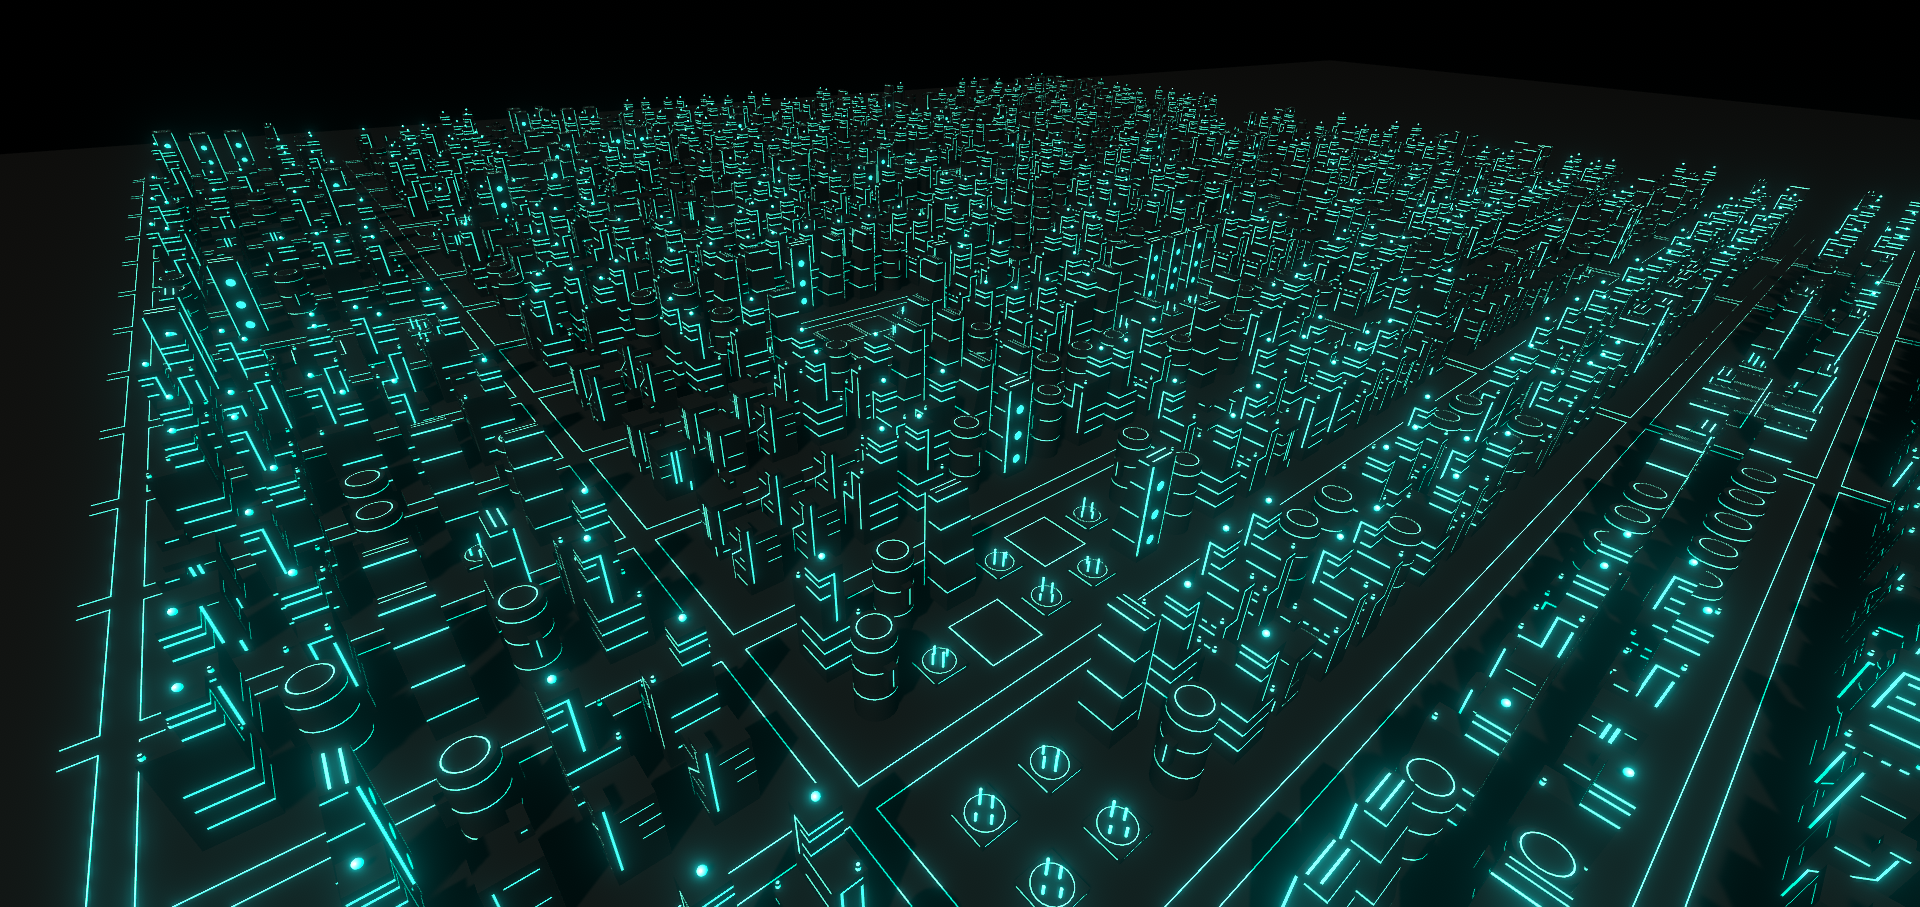
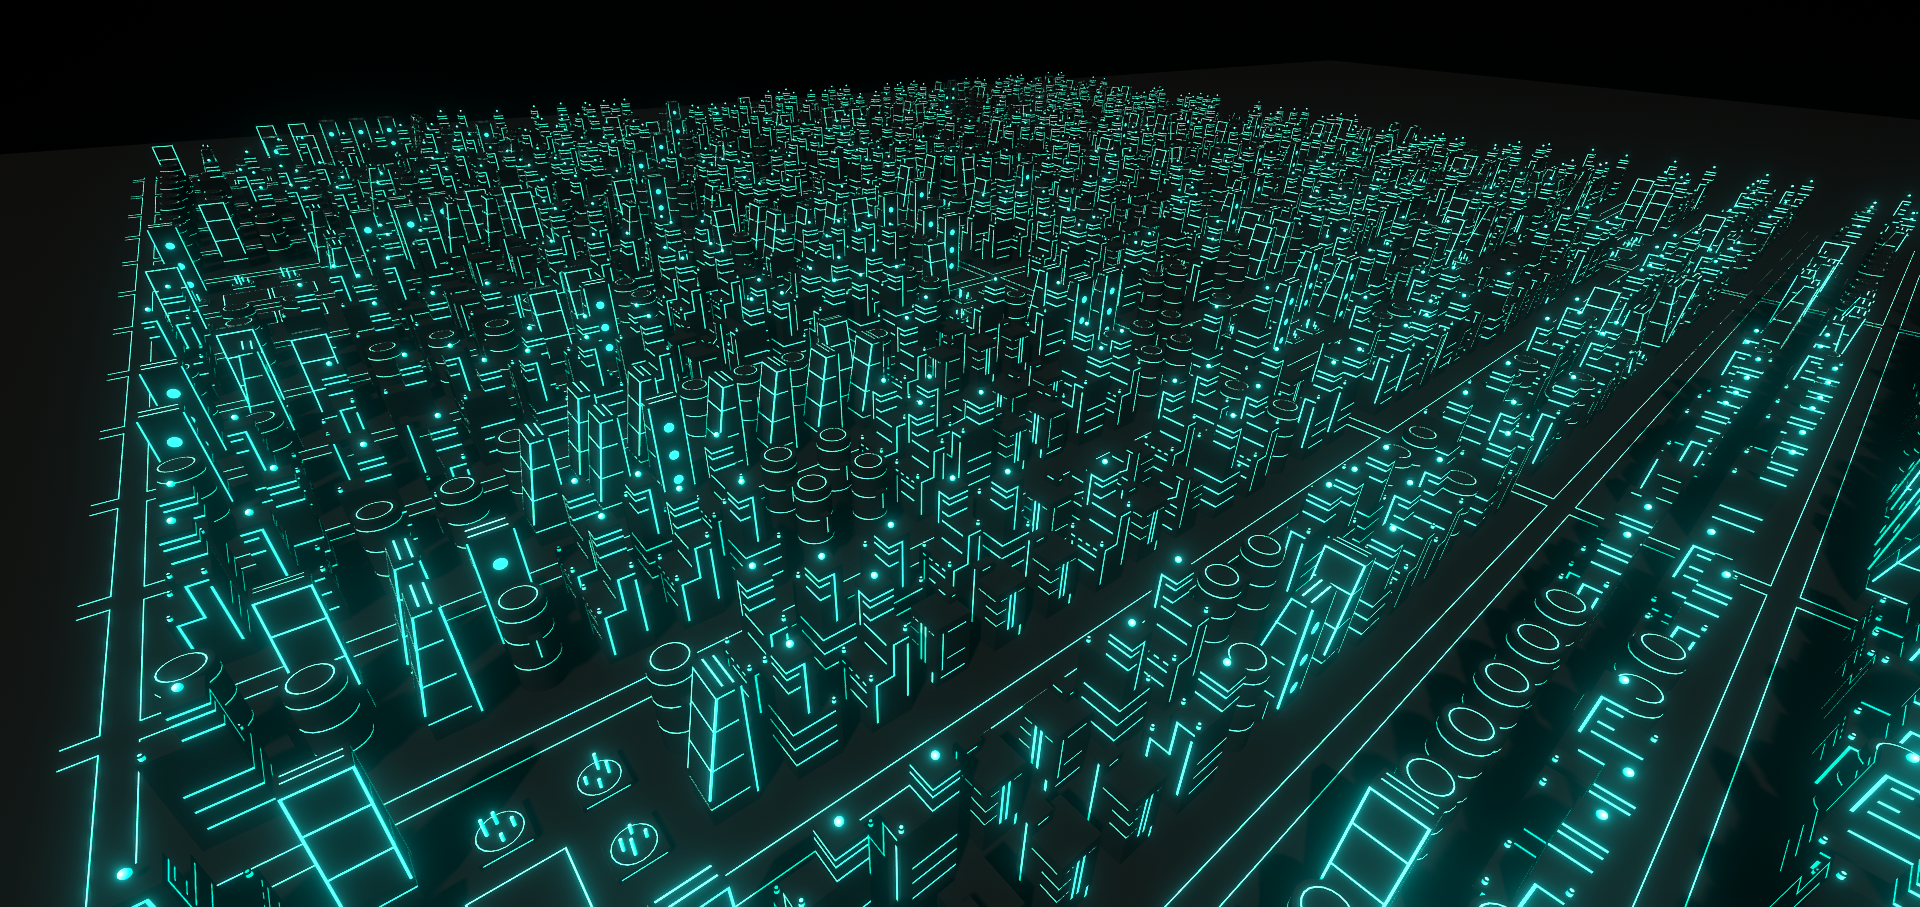
Updated Building 4 to have highlights on the slant

Changed region(s): [[0.0312, 0.0617, 1.0, 1.0], [0.875, 0.9879, 0.9062, 1.0], [0.875, 0.8335, 0.9062, 0.8644]]

diff --git a/README.md b/README.md
@@ -2,6 +2,10 @@
 
 # Lab 8:
 
+![](Images/Lab%207%20Part%202A%20Height%20Texture.png)
+
+For the tutorial step-by-step, I used the following textures in that scene:
+
 https://3dtextures.me/2018/12/17/ground-grass-001/
 
 https://3dtextures.me/2018/11/12/asphalt-006/
